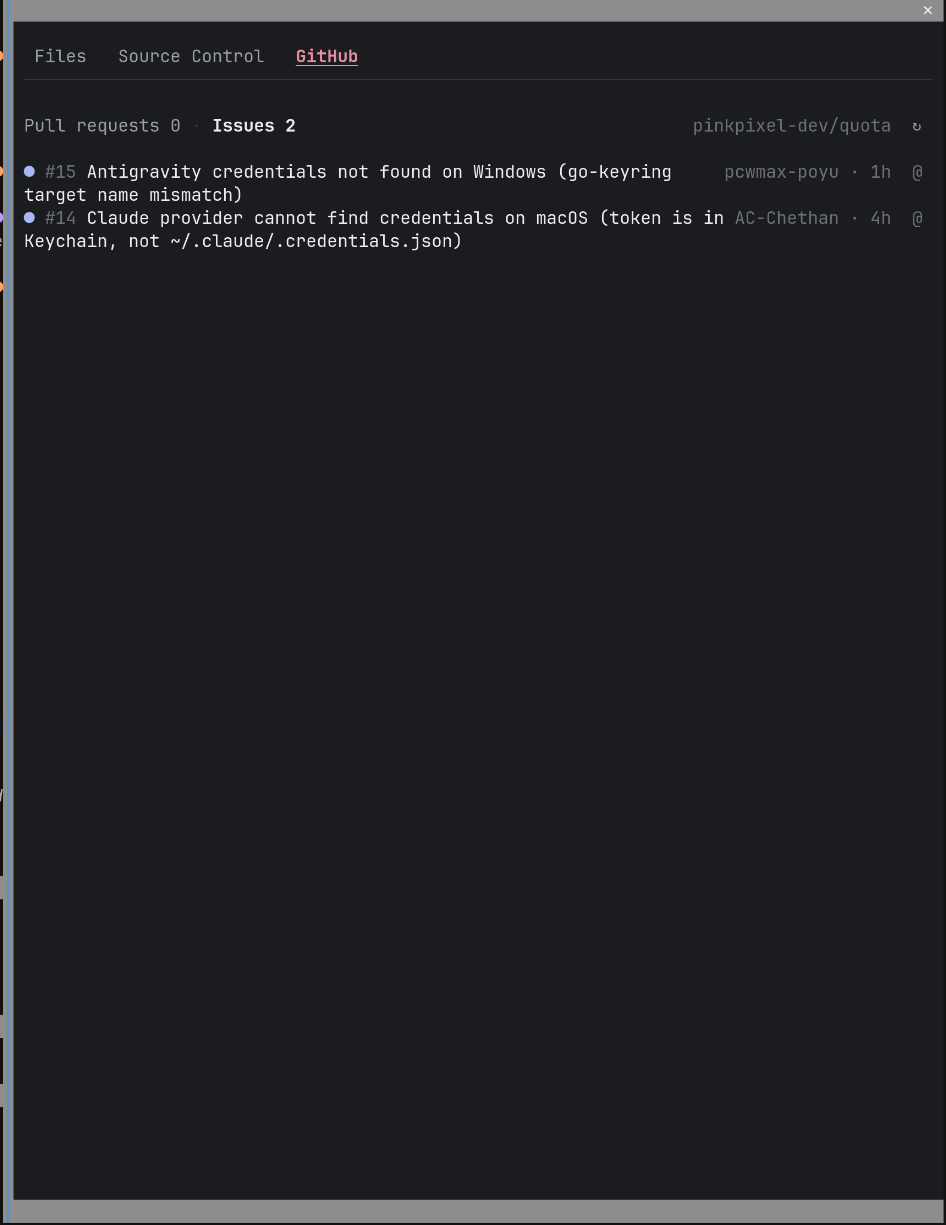
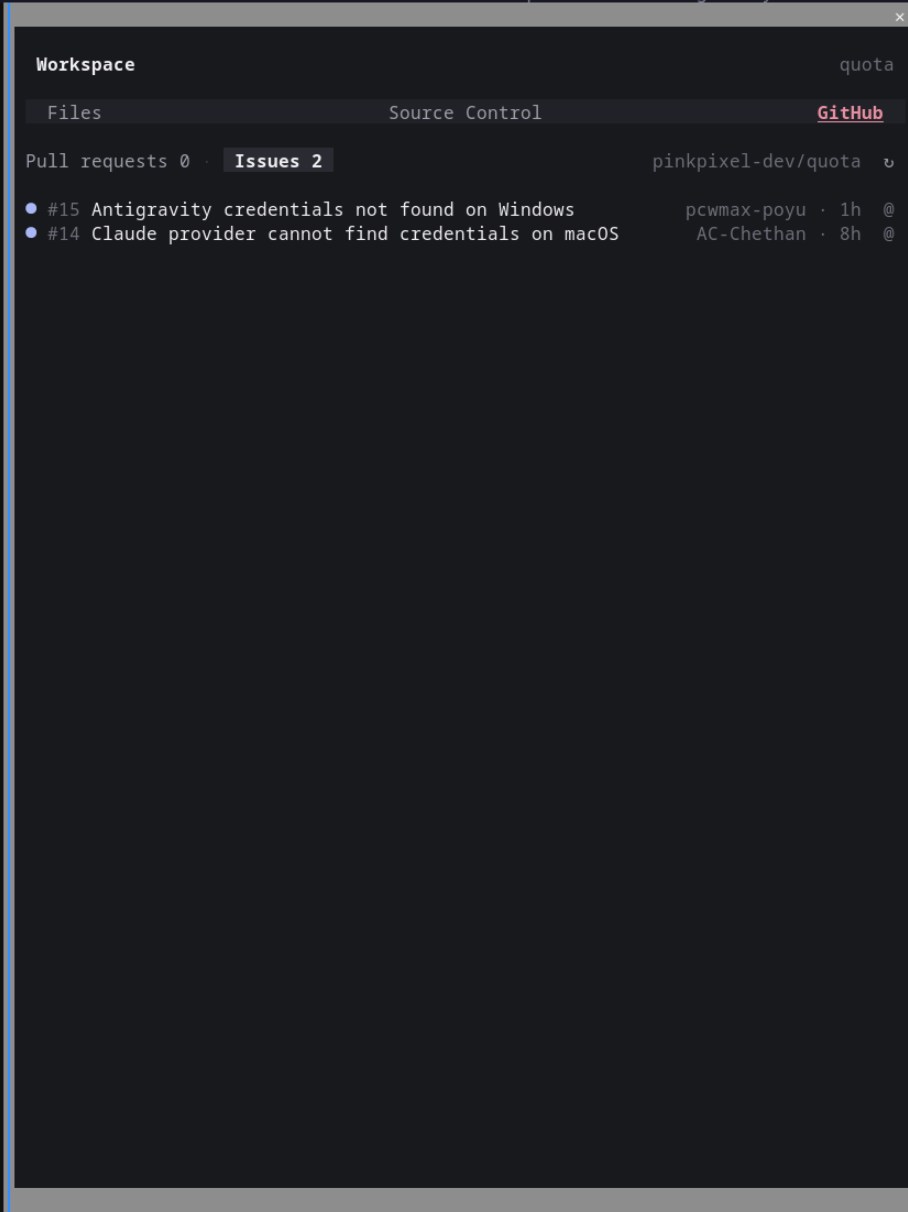
chore: release 0.7.0
- Bump the plugin version to 0.7.0
- Date the 0.7.0 changelog entry
- Refresh the README screenshots for the redesigned pane

Changed region(s): [[0.0, 0.0, 1.0, 1.0]]

diff --git a/CHANGELOG.md b/CHANGELOG.md
@@ -1,6 +1,6 @@
 # Changelog
 
-## 0.7.0 - In progress
+## 0.7.0 - October 19, 2026
 
 ### 🌳 History graph
 
